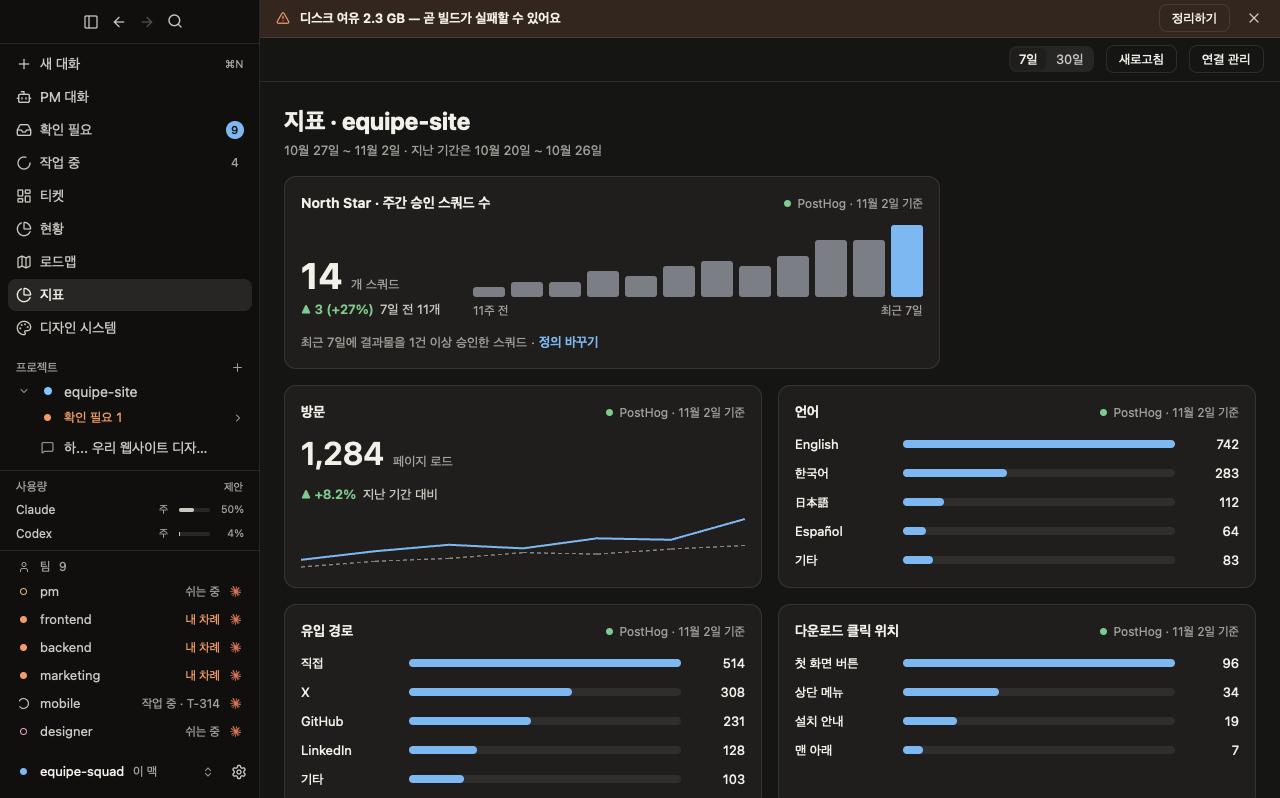
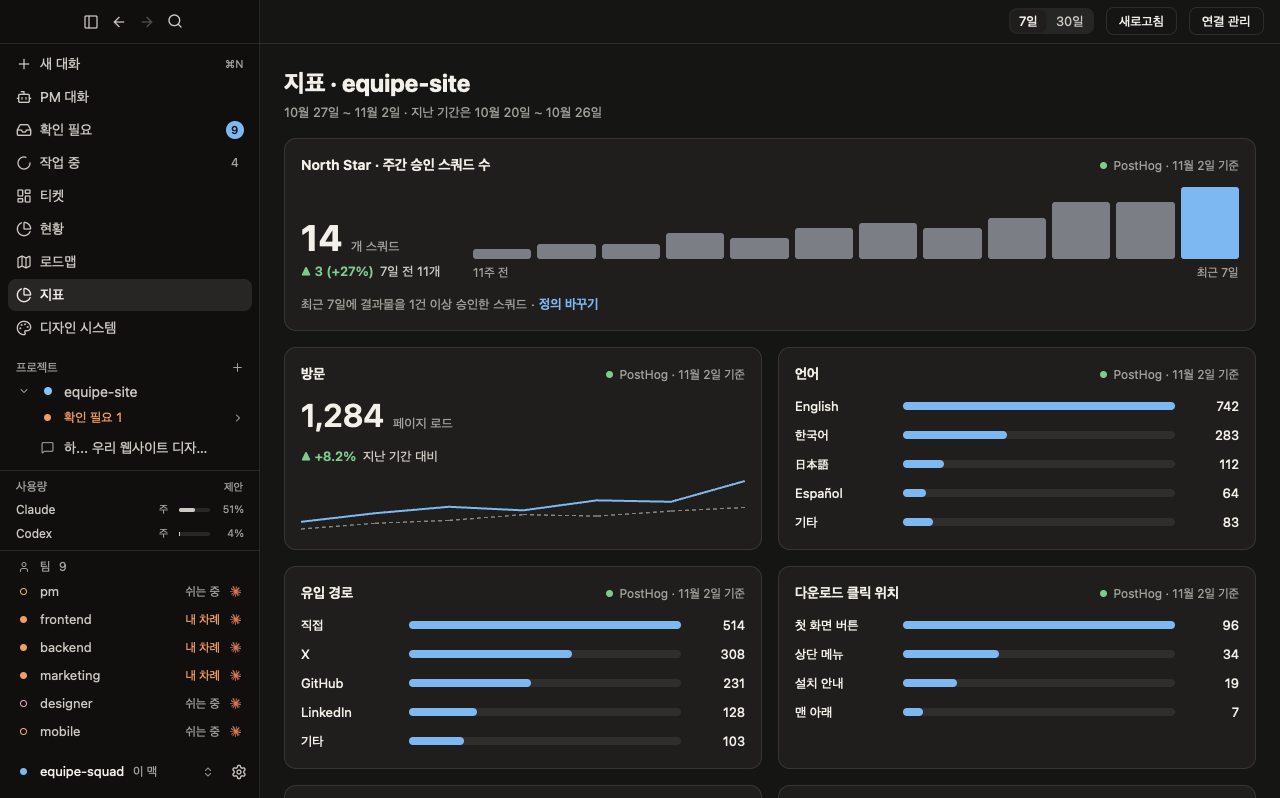
equipe: T-331 North Star 카드 폭: 3열 이상에서만 2열 폭, 아니면 한 줄 전체

diff --git a/crates/desktop/src/views/metrics.rs b/crates/desktop/src/views/metrics.rs
@@ -390,13 +390,26 @@ fn placeholder(p: Palette) -> Div {
     div().rounded(px(6.)).bg(if dark(p) { p.hair } else { p.wash })
 }
 
-fn north_frame(p: Palette, border: Rgba) -> Stateful<Div> {
-    v_flex().id("metrics-north").flex_none().flex_basis(px(CARD_BASIS * 2. + 16.)).max_w_full().min_w(px(CARD_MIN)).p_4().gap_3().rounded(px(R_LG)).border_1().border_color(border).bg(p.raised)
+/// The card's width: two columns of the cards' grid where it has three or
+/// more, else the whole row (two columns would leave a gap beside it).
+fn north_width(room: f32) -> Option<f32> {
+    let inner = (room - 48.).min(1100. - 48.);
+    let columns = ((inner + 16.) / (CARD_BASIS + 16.)).floor();
+    (room > 0. && columns >= 3.).then(|| 2. * (inner - (columns - 1.) * 16.) / columns + 16.)
+}
+
+fn north_frame(p: Palette, border: Rgba, room: f32) -> Stateful<Div> {
+    let frame = v_flex().id("metrics-north").min_w(px(CARD_MIN)).p_4().gap_3().rounded(px(R_LG)).border_1().border_color(border).bg(p.raised);
+    match north_width(room) {
+        Some(w) => frame.flex_none().w(px(w)),
+        None => frame.w_full(),
+    }
 }
 
 fn north_card(shell: &Shell, state: &NorthStar, sources: &Sources, now: u64, cx: &mut Context<Shell>) -> AnyElement {
     let p = shell.palette;
-    let narrow = shell.metrics.room > 0. && shell.metrics.room < NORTH_WIDE;
+    let room = shell.metrics.room;
+    let narrow = room > 0. && room < NORTH_WIDE;
     let spec = sources.kinds.iter().find(|k| k.kind == SourceKind::Posthog);
     let name = card_service(SourceKind::Posthog, spec);
     let connection = sources.connections.iter().find(|c| c.kind == SourceKind::Posthog).map(|c| c.id.clone());
@@ -418,11 +431,11 @@ fn north_card(shell: &Shell, state: &NorthStar, sources: &Sources, now: u64, cx:
         NorthStar::Loading => {
             let numbers = v_flex().gap_2().flex_none().child(placeholder(p).w(px(96.)).h(px(40.))).child(placeholder(p).w(px(140.)).h(px(20.)));
             let body = if narrow { v_flex().gap_3().child(numbers).child(placeholder(p).w_full().h(px(56.))) } else { h_flex().gap_8().items_end().child(numbers).child(div().flex_1().child(placeholder(p).w_full().h(px(NORTH_BARS_H)))) };
-            north_frame(p, p.hair).child(title_line(p, title, wait(p), t!("metrics.source", service = name, time = lookup("metrics.ns.loading".into())))).child(body).child(about(lookup("metrics.ns.def".into()), None)).into_any_element()
+            north_frame(p, p.hair, room).child(title_line(p, title, wait(p), t!("metrics.source", service = name, time = lookup("metrics.ns.loading".into())))).child(body).child(about(lookup("metrics.ns.def".into()), None)).into_any_element()
         }
         NorthStar::Undefined => {
             let set = ui::button(p, "metrics-north-set", Kind::Primary, t!("metrics.ns.set")).on_click(cx.listener(move |this, _, window, cx| this.metrics_open_connect(Some(SourceKind::Posthog), connection.clone(), window, cx)));
-            north_frame(p, p.hair)
+            north_frame(p, p.hair, room)
                 .child(title_line(p, lookup("metrics.ns.title_short".into()), wait(p), lookup("metrics.ns.none".into())))
                 .child(div().text_size(px(15.)).line_height(px(24.)).font_weight(FontWeight::SEMIBOLD).text_color(p.text).child(lookup("metrics.ns.none_title".into())))
                 .child(div().text_size(px(13.)).line_height(px(20.)).text_color(p.text).child(lookup("metrics.ns.none_body".into())))
@@ -468,7 +481,7 @@ fn north_card(shell: &Shell, state: &NorthStar, sources: &Sources, now: u64, cx:
                 None if c.short() => about(t!("metrics.ns.short_note", n = c.known()), Some(edit)).into_any_element(),
                 None => about(lookup("metrics.ns.def".into()), Some(edit)).into_any_element(),
             };
-            north_frame(p, c.error.map_or(p.hair, |e| tone(p, e))).child(title_line(p, title, dot, source)).child(body).child(foot).into_any_element()
+            north_frame(p, c.error.map_or(p.hair, |e| tone(p, e)), room).child(title_line(p, title, dot, source)).child(body).child(foot).into_any_element()
         }
     }
 }
